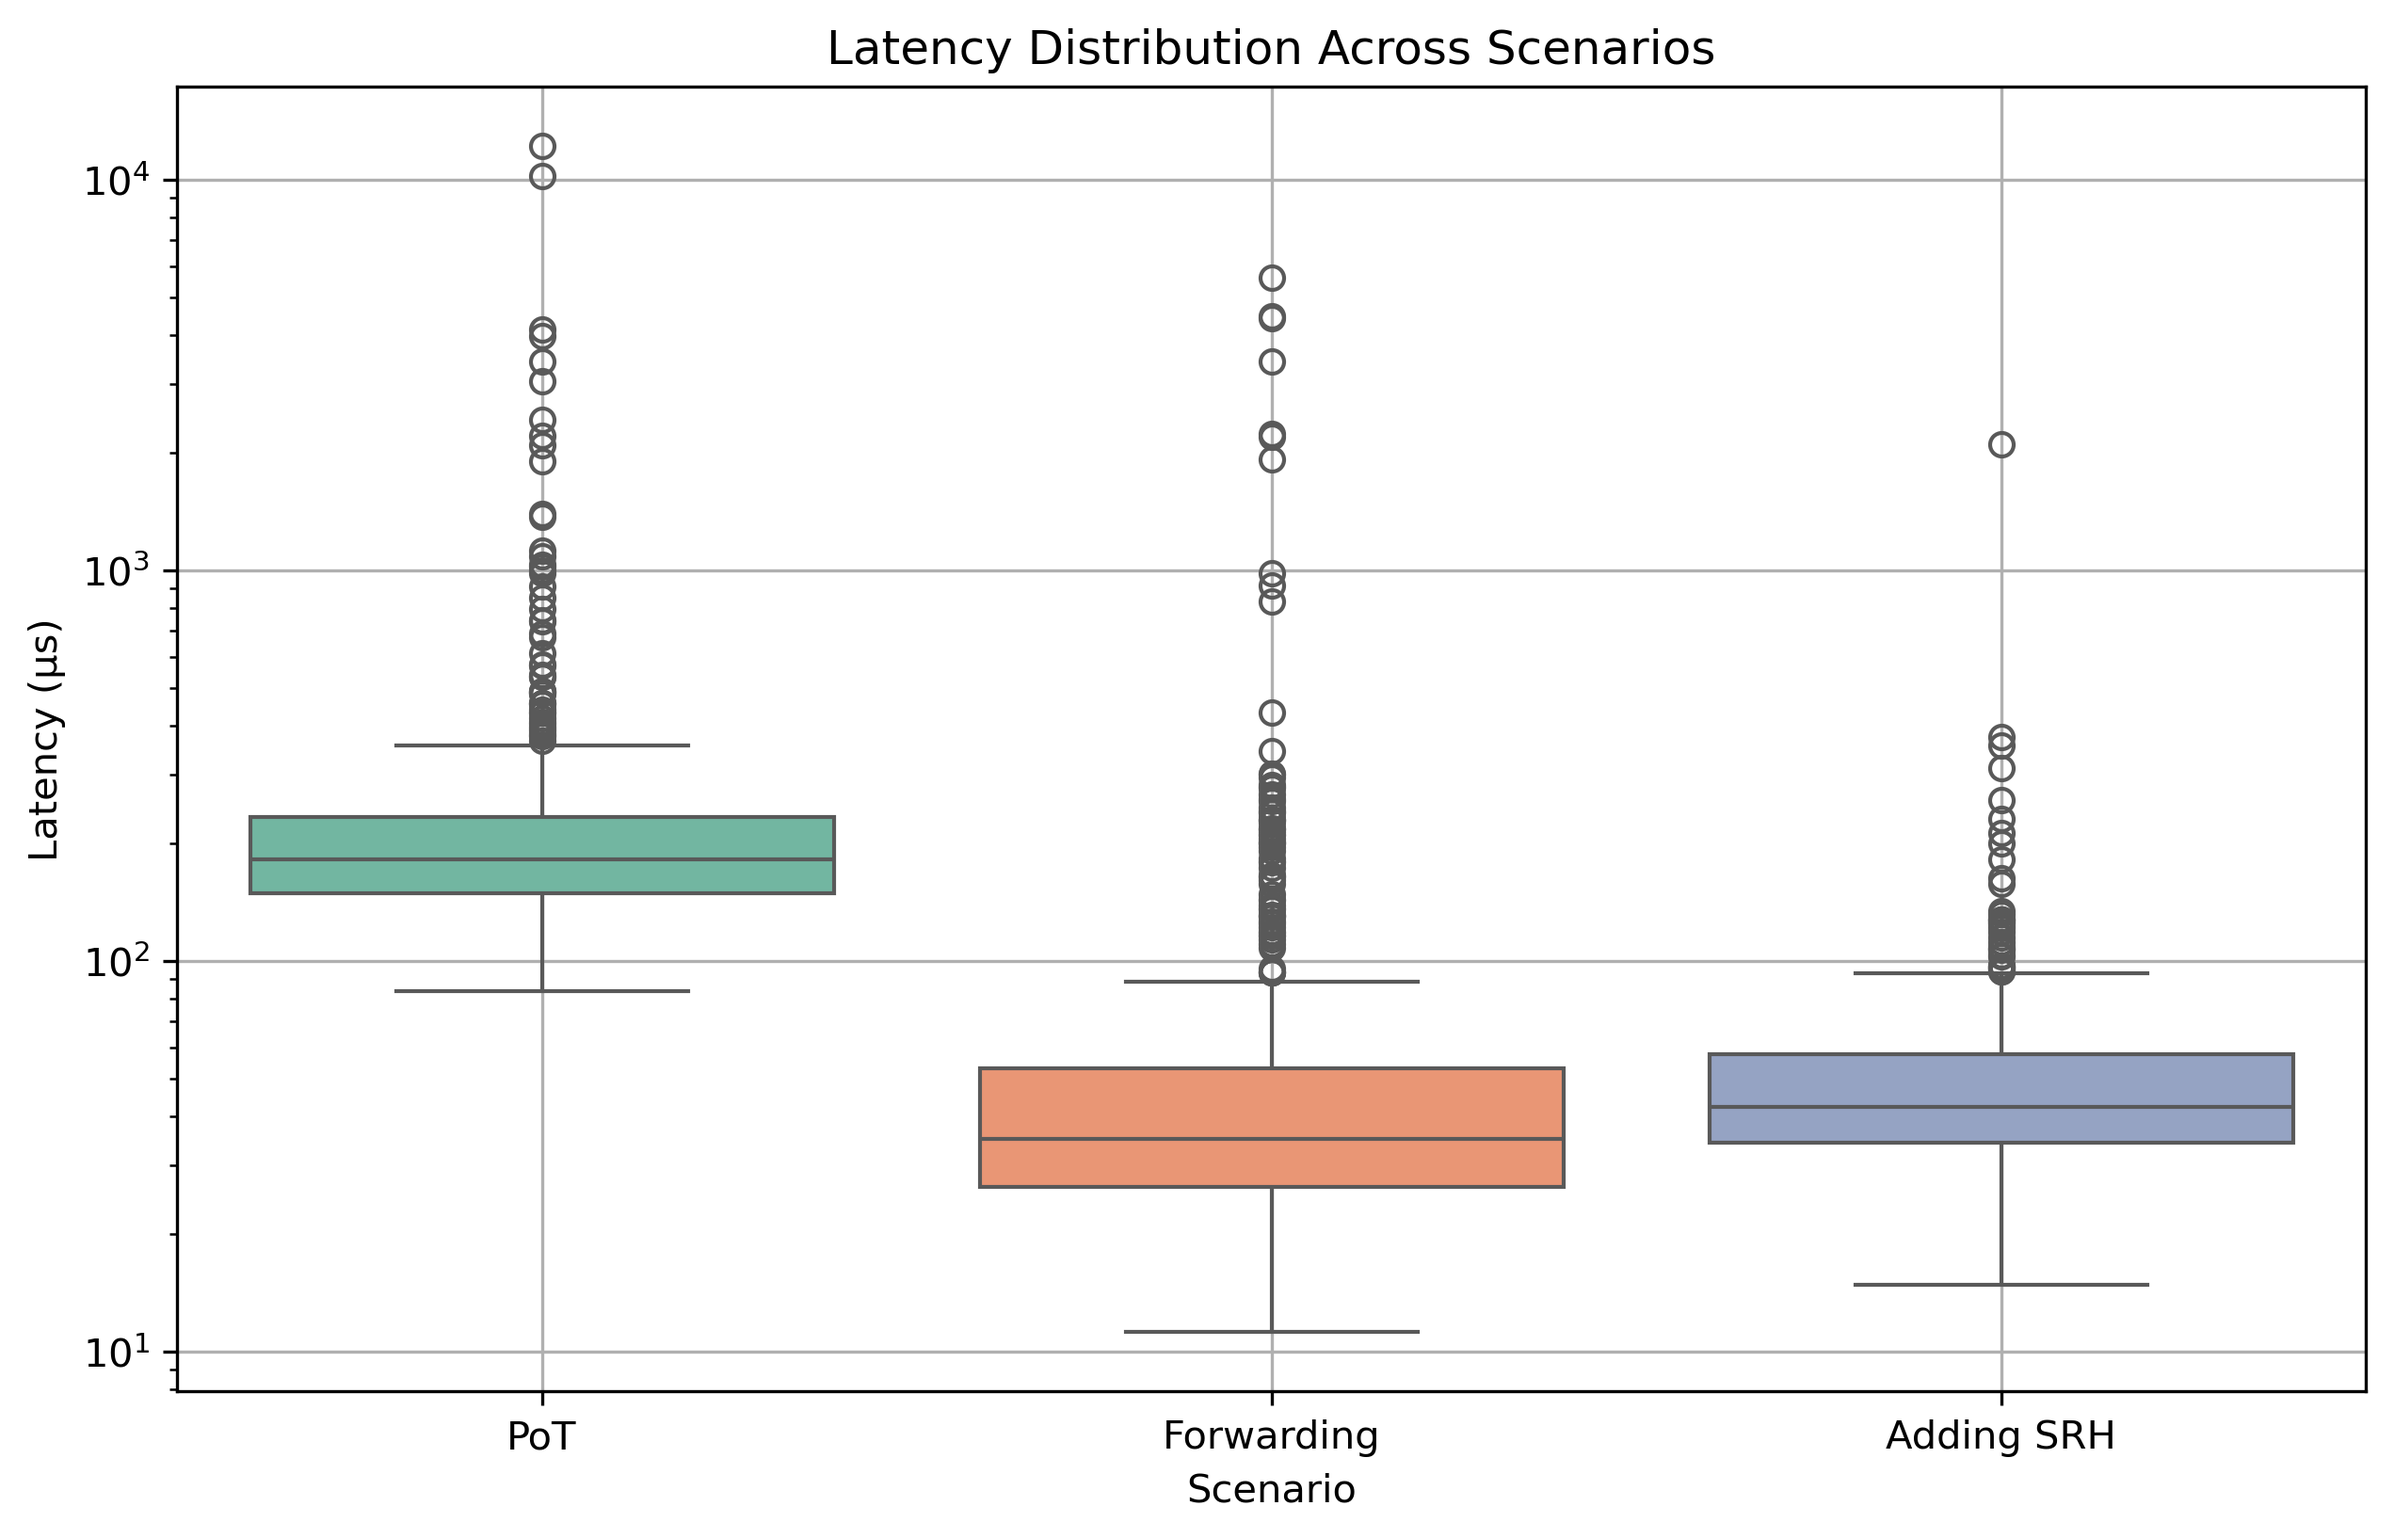
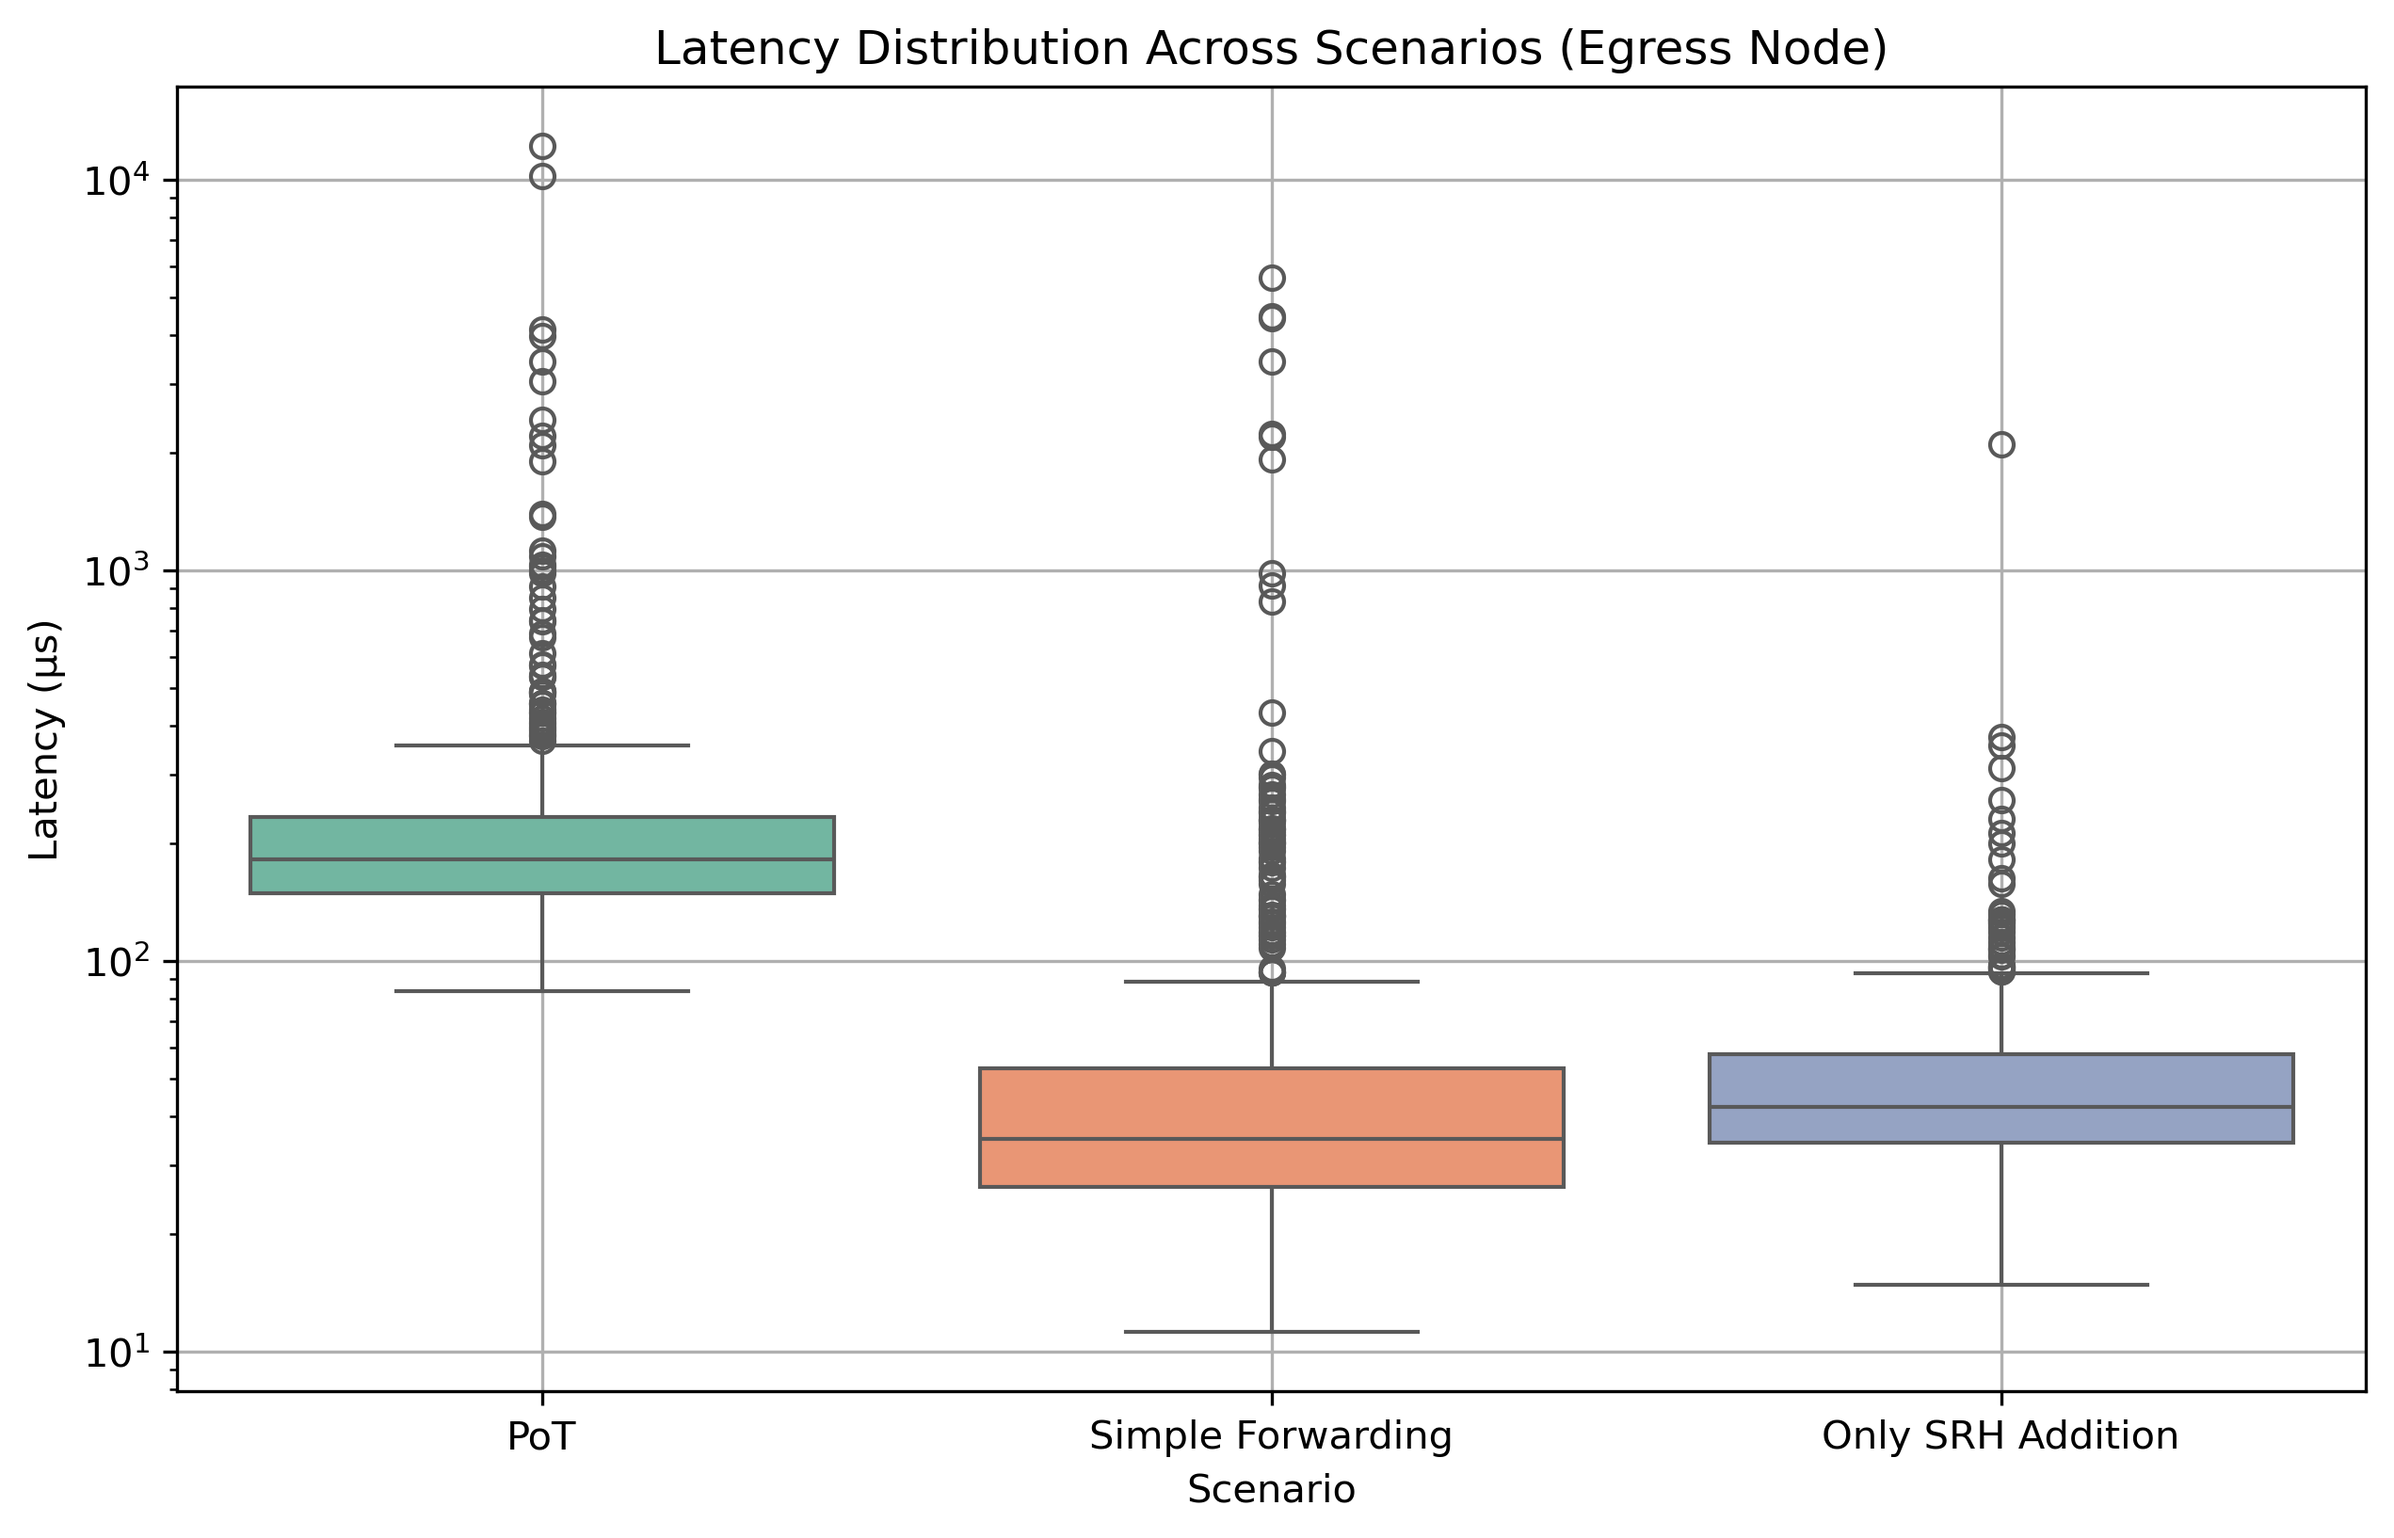
figure updates

Changed region(s): [[0.2796, 0.0, 0.7766, 0.0624], [0.7766, 0.9051, 0.9009, 0.9676], [0.466, 0.9051, 0.5902, 0.9676]]

diff --git a/results/creator/latency-box.py b/results/creator/latency-box.py
@@ -31,14 +31,14 @@ save_latencies_to_csv(scenario3_latencies, "scenario3_latencies.csv")
 
 # Step 3: Combine latencies into a single DataFrame for box plot
 data = pd.DataFrame({
-    "Scenario": ["PoT"] * len(scenario1_latencies) + ["Forwarding"] * len(scenario2_latencies) + ["Adding SRH"] * len(scenario3_latencies),
+    "Scenario": ["PoT"] * len(scenario1_latencies) + ["Simple Forwarding"] * len(scenario2_latencies) + ["Only SRH Addition"] * len(scenario3_latencies),
     "Latency (µs)": scenario1_latencies + scenario2_latencies + scenario3_latencies
 })
 
 # Step 4: Create box plot
 plt.figure(figsize=(10, 6))
 sns.boxplot(x="Scenario", y="Latency (µs)", data=data, palette="Set2")
-plt.title("Latency Distribution Across Scenarios")
+plt.title("Latency Distribution Across Scenarios (Ingress Node)")
 plt.xlabel("Scenario")
 plt.ylabel("Latency (µs)")
 plt.yscale("log")

diff --git a/results/controller/latency-box.py b/results/controller/latency-box.py
@@ -31,14 +31,14 @@ save_latencies_to_csv(scenario3_latencies, "scenario3_latencies.csv")
 
 # Step 3: Combine latencies into a single DataFrame for box plot
 data = pd.DataFrame({
-    "Scenario": ["PoT"] * len(scenario1_latencies) + ["Forwarding"] * len(scenario2_latencies) + ["Adding SRH"] * len(scenario3_latencies),
+    "Scenario": ["PoT"] * len(scenario1_latencies) + ["Simple Forwarding"] * len(scenario2_latencies) + ["Only SRH Addition"] * len(scenario3_latencies),
     "Latency (µs)": scenario1_latencies + scenario2_latencies + scenario3_latencies
 })
 
 # Step 4: Create box plot
 plt.figure(figsize=(10, 6))
 sns.boxplot(x="Scenario", y="Latency (µs)", data=data, palette="Set2")
-plt.title("Latency Distribution Across Scenarios")
+plt.title("Latency Distribution Across Scenarios (Egress Node)")
 plt.xlabel("Scenario")
 plt.ylabel("Latency (µs)")
 plt.yscale("log")

diff --git a/results/middle/latency-middle-box.py b/results/middle/latency-middle-box.py
@@ -31,14 +31,14 @@ save_latencies_to_csv(scenario2_latencies, "scenario2_latencies.csv")
 
 # Step 3: Combine latencies into a single DataFrame for box plot
 data = pd.DataFrame({
-    "Scenario": ["PoT"] * len(scenario1_latencies) + ["Forwarding or SRH addition"] * len(scenario2_latencies),
+    "Scenario": ["PoT"] * len(scenario1_latencies) + ["Simple Forwarding"] * len(scenario2_latencies),
     "Latency (µs)": scenario1_latencies + scenario2_latencies 
 })
 
 # Step 4: Create box plot
 plt.figure(figsize=(10, 6))
 sns.boxplot(x="Scenario", y="Latency (µs)", data=data, palette="Set2")
-plt.title("Latency Distribution Across Scenarios")
+plt.title("Latency Distribution Across Scenarios (Middle Node)")
 plt.xlabel("Scenario")
 plt.ylabel("Latency (µs)")
 plt.yscale("log")
